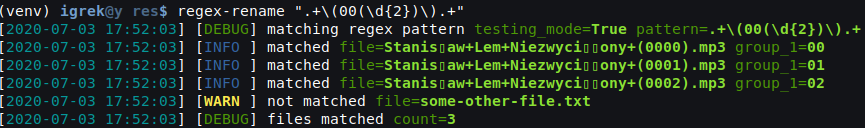
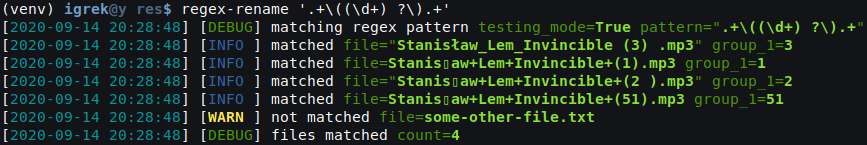
Update Readme & screenshots

diff --git a/regex_rename/bulk.py b/regex_rename/bulk.py
@@ -15,7 +15,7 @@ def bulk_rename(pattern: str, replacement: Optional[str], rename: bool, full: bo
                   testing_mode=testing, pattern=pattern, replacement=replacement, full_match=full, padding=pad_to)
 
         filenames = sorted([str(f) for f in Path().iterdir()])
-        matched = [match_filename(filename, pattern, replacement, full, pad_to) for filename in filenames]
+        matched = [match_filename(filename, pattern, replacement, full, pad_to, testing) for filename in filenames]
         matched = list(filter(lambda e: e, matched))
 
         if testing:
@@ -25,7 +25,8 @@ def bulk_rename(pattern: str, replacement: Optional[str], rename: bool, full: bo
             log.info('files renamed', count=len(matched))
 
 
-def match_filename(filename: str, pattern: str, replacement: Optional[str], full: bool, padding: int) -> Optional[Match]:
+def match_filename(filename: str, pattern: str, replacement: Optional[str], full: bool, padding: int,
+                   testing: bool) -> Optional[Match]:
     if full:
         match = re.fullmatch(pattern, filename)
     else:
@@ -52,7 +53,8 @@ def match_filename(filename: str, pattern: str, replacement: Optional[str], full
     for idx, group in group_dict.items():
         new_name = new_name.replace(f'\\{idx}', group)
 
-    log.info('matched', **{'from': filename, 'to': new_name}, **group_kwargs)
+    if testing:
+        log.info('matched', **{'from': filename, 'to': new_name}, **group_kwargs)
     return Match(name_from=filename, name_to=new_name, groups=group_dict, re_match=match)
 
 

diff --git a/tests/test_bulk_rename.py b/tests/test_bulk_rename.py
@@ -16,8 +16,8 @@ def test_bulk_rename():
         shell(f'touch "Stanis▯aw+Lem+Niezwyci▯▯ony+(02).mp3"')
         shell(f'touch "Stanis▯aw+Lem+Niezwyci▯▯ony+(03).mp3"')
 
-        bulk_rename(r'.+\((\d{1,2})\).+', r'\1 Niezwyciężony.mp3', rename=False, full=False, pad_to=2)
-        bulk_rename(r'.+\((\d{1,2})\).+', r'\1 Niezwyciężony.mp3', rename=True, full=False, pad_to=2)
+        bulk_rename(r'.+\((\d{1,2})\).mp3', r'\1 Niezwyciężony.mp3', rename=False, full=False, pad_to=2)
+        bulk_rename(r'.+\((\d{1,2})\).mp3', r'\1 Niezwyciężony.mp3', rename=True, full=False, pad_to=2)
 
         files = set([str(f) for f in Path().iterdir()])
         assert files == {'01 Niezwyciężony.mp3', '02 Niezwyciężony.mp3', '03 Niezwyciężony.mp3', 'some-other-file.txt'}

diff --git a/README.md b/README.md
@@ -11,7 +11,7 @@ enter `regex-rename` for help:
 
 ```shell
 $ regex-rename 
-regex-rename v0.1.0 (nuclear v1.1.5) - Regular expressions bulk rename tool for multiple files
+regex-rename v0.1.1 (nuclear v1.1.5) - Regular expressions bulk rename tool for multiple files
 
 Usage:
 regex-rename [OPTIONS] PATTERN [REPLACEMENT]
@@ -23,8 +23,9 @@ Arguments:
 Options:
   --version                   - Print version information and exit
   -h, --help [SUBCOMMANDS...] - Display this help and exit
-  --rename                    - Does actual renaming files instead of just testing replacement pattern
+  -r, --rename                - Does actual renaming files instead of just testing replacement pattern
   --full                      - Enforces matching full filename against pattern
+  --pad-to PAD_TO             - Applies padding with zeros with given length on matched numerical groups
 ```
 
 # Installation
@@ -49,26 +50,29 @@ and you want to rename all of them in a manner `01 The Invincible.mp3` (extracti
 
 ## Step 1: Testing matching pattern 
 
-Our Regex pattern to match those files and extract 2 digit number should be like this: `.+\(00(\d{2})\).+`
+Our Regex pattern to match those files and extract number from parentheses should be like this: `.+\((\d+) ?\).+`
 
-Let's test matching pattern:  
+Let's test matching pattern: `regex-rename '.+\((\d+) ?\).+'`  
 ![Usage example](https://github.com/igrek51/regex-rename/blob/master/docs/img/screen-1.png?raw=true)    
 Notice that regex groups are extracted in logs.
 
 ## Step 2: Testing replacement pattern
 
-We'd like to replace all files to a pattern: `\1 The Invincible.mp3` (`\1` is a first extracted group from matching pattern)
+We'd like to replace all files to a pattern: `\1 The Invincible.mp3` (`\1` is a first extracted group from matching pattern).
+Regex can't easily pad numbers with zeros. Fortunately, we can use `--pad-to=2` to obtain 2-digit numbers
 
-Let's test it:  
+Let's test it: `regex-rename '.+\((\d+) ?\).+' '\1 The Invincible.mp3' --pad-to=2`  
 ![Usage example](https://github.com/igrek51/regex-rename/blob/master/docs/img/screen-2.png?raw=true)  
 
 ## Step 3: Actual renaming
 
 All above commands were just testing our patterns so that we could experiment with regex patterns. Only when we're sure that everything is matched correctly, we can use `--rename` flag which does the actual renaming:  
+`regex-rename '.+\((\d+) ?\).+' '\1 The Invincible.mp3' --pad-to=2 --rename`  
 ![Usage example](https://github.com/igrek51/regex-rename/blob/master/docs/img/screen-3.png?raw=true)  
 
-After that files are named properly:
+From now files are named properly:
 - `01 The Invincible.mp3`
 - `02 The Invincible.mp3`
+- `03 The Invincible.mp3`
 - ...
 - `51 The Invincible.mp3`
